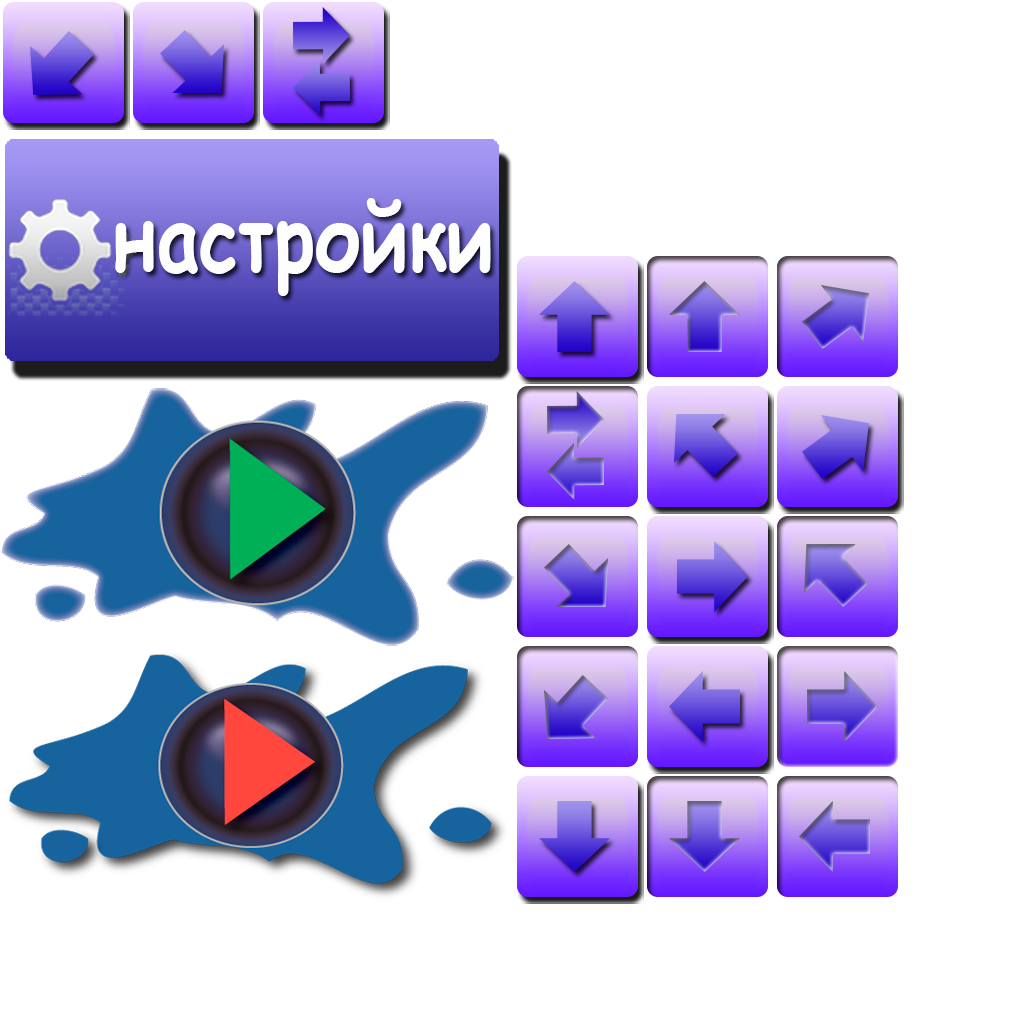
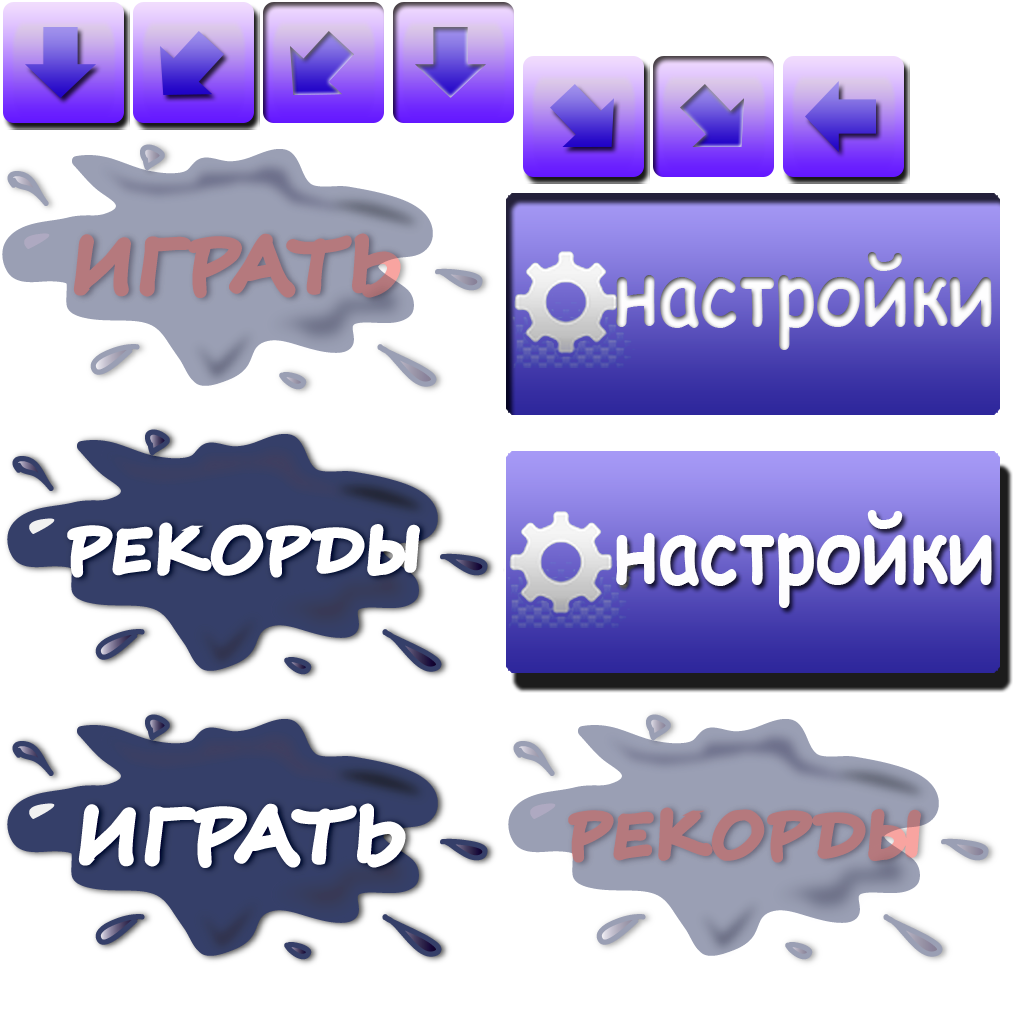
вид кнопок поменял

diff --git a/graphdict/src/net/slezok/dots/screens/LevelsListScreen.java b/graphdict/src/net/slezok/dots/screens/LevelsListScreen.java
@@ -133,13 +133,13 @@ public class LevelsListScreen implements Screen {
 		Table table = new Table(Assets.skin);
 		table.setWidth(600);
 		table.setHeight(300);
-		table.setX(400 + stage.getGutterWidth());
+		table.setX(350 + stage.getGutterWidth());
 		table.setY(100 + stage.getGutterHeight());
 //		table.debug(); 
 		table.add(scroller).width(200).height(200);
 		table.row();
-		table.add(playButton).width(250).height(80);
-		table.add(recordsButton).width(250).height(80);
+		table.add(playButton).width(250).height(80).padTop(50);
+		table.add(recordsButton).width(250).height(80).padTop(50);
 		
 		stage.addActor(backImage);
 		stage.addActor(table);

diff --git a/graphdict/src/net/slezok/dots/Assets.java b/graphdict/src/net/slezok/dots/Assets.java
@@ -103,8 +103,8 @@ public class Assets {
 		play = buttonsAtlas.findRegion("play");
 		playPressed = buttonsAtlas.findRegion("play_pressed");
 
-		records = buttonsAtlas.findRegion("sett");
-		recordsPressed = buttonsAtlas.findRegion("sett_pressed");
+		records = buttonsAtlas.findRegion("records");
+		recordsPressed = buttonsAtlas.findRegion("records_pressed");
 
 		skin = new Skin(Gdx.files.internal("data/uiskin.json"));
 		
